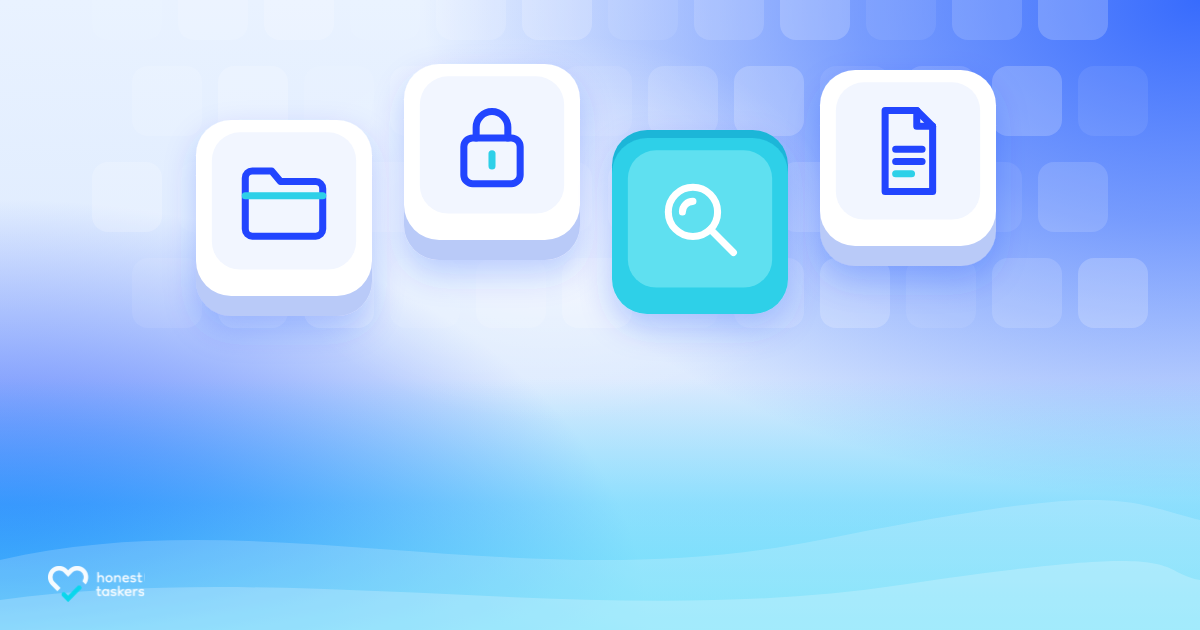
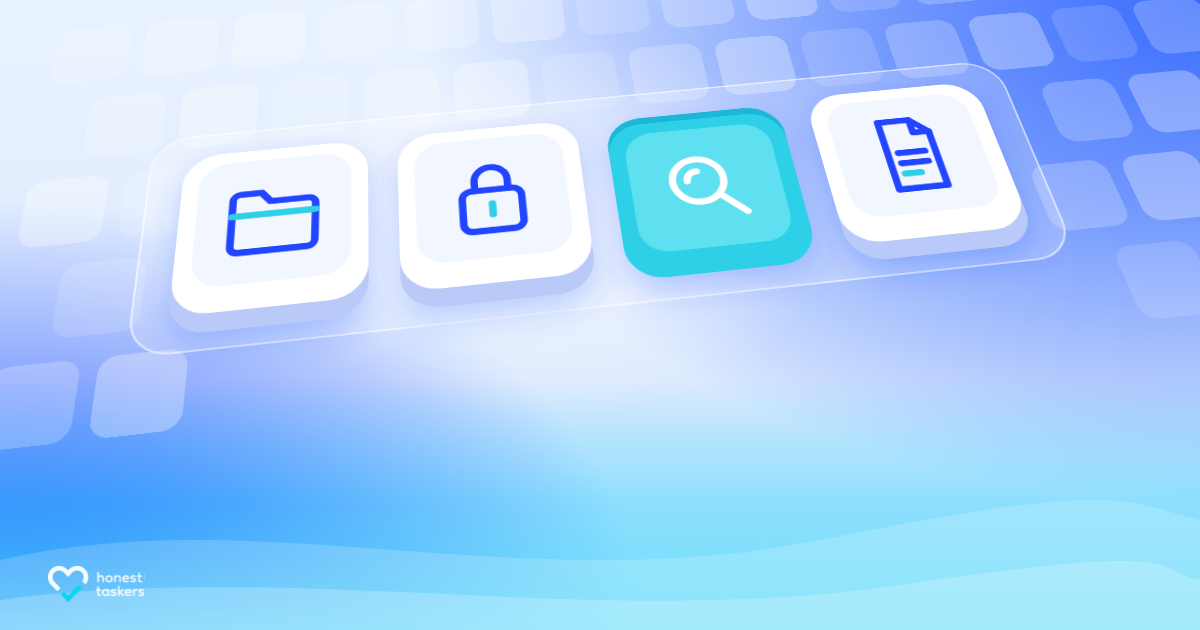
v7: scenes s19-s36 (WIP)
Claude-Session: https://claude.ai/code/session_01AHsVWFWnB54Ytwp6awPeMf

diff --git a/blog-image-research/v7/templates/scenes-c.js b/blog-image-research/v7/templates/scenes-c.js
@@ -210,7 +210,7 @@ S.s43 = { title: 'Virtual Medical Scribe vs. AI Medical Scribe: Key Differences 
 S.s44 = { title: 'Front Desk Burnout in Medical Offices, Signs and Fixes', style: 'Chaos desk', draw({ svg, P }) {
   let s = '';
   // sticky-note storm
-  const notes = [[205, 70, -14, P.sky], [300, 34, 10, '#fff'], [395, 98, -6, P.aqua], [470, 28, 18, '#fff'], [560, 84, -20, CORAL], [655, 22, 8, P.sky], [735, 92, 14, '#fff'], [820, 40, -10, P.aqua], [905, 104, 22, '#fff'], [990, 46, -16, P.sky], [250, 160, 24, '#fff'], [960, 170, -8, P.aqua], [610, 150, 6, '#fff']];
+  const notes = [[205, 70, -14, P.sky], [300, 34, 10, '#fff'], [395, 98, -6, P.aqua], [470, 28, 18, '#fff'], [560, 84, -20, CORAL], [655, 22, 8, P.sky], [735, 92, 14, '#fff'], [820, 40, -10, P.aqua], [905, 104, 22, '#fff'], [990, 46, -16, P.sky], [250, 160, 24, '#fff'], [960, 170, -8, P.aqua]];
   notes.forEach(([x, y, r, c], i) => { const z = i % 3 === 0 ? 62 : 50;
     s += `<g transform="translate(${x} ${y}) rotate(${r})" filter="url(#soft)"><path d="M${-z / 2} ${-z / 2} h${z} v${z * .72} l${-z * .28} ${z * .28} h${-z * .72}z" fill="${c}" opacity=".96"/><path d="M${z / 2} ${z * .22} l${-z * .28} ${z * .28} v${-z * .28}z" fill="#000" opacity=".08"/><rect x="${-z / 2 + 9}" y="${-z / 2 + 12}" width="${z * .5}" height="5" rx="2.5" fill="${c === '#fff' ? P.line : '#fff'}" opacity=".85"/><rect x="${-z / 2 + 9}" y="${-z / 2 + 23}" width="${z * .35}" height="5" rx="2.5" fill="${c === '#fff' ? P.line : '#fff'}" opacity=".85"/></g>`; });
   // desk
@@ -269,14 +269,13 @@ S.s46 = { title: 'How to Measure the ROI of a Virtual Medical Assistant', style:
     s += `<clipPath id="tc${i}"><path d="M${x - w / 2 + 6} ${tTop} V${tBot - w / 2} a${w / 2 - 6} ${w / 2 - 6} 0 0 0 ${w - 12} 0 V${tTop}"/></clipPath>`;
     s += `<g clip-path="url(#tc${i})"><rect x="${x - w / 2}" y="${ly}" width="${w}" height="${h + 40}" fill="url(#t46)"/><ellipse cx="${x}" cy="${ly}" rx="${w / 2}" ry="6" fill="#fff" opacity=".45"/>`;
     const n = Math.floor((h - 24) / 13); for (let k = 0; k < n; k++) { const cy = tBot - 26 - k * 13, jx = x + [0, 2, -1, 1, -2][k % 5];
-      s += `<rect x="${jx - 23}" y="${cy - 1}" width="46" height="9" fill="${P.deep}"/><ellipse cx="${jx}" cy="${cy + 8}" rx="23" ry="6" fill="${P.deep}"/><ellipse cx="${jx}" cy="${cy}" rx="23" ry="6" fill="#fff"/><ellipse cx="${jx}" cy="${cy}" rx="14" ry="3.4" fill="none" stroke="${P.sky}" stroke-width="2"/>`; }
+      s += `<rect x="${jx - 23}" y="${cy - 1}" width="46" height="9" fill="${P.blue}"/><ellipse cx="${jx}" cy="${cy + 8}" rx="23" ry="6" fill="${P.blue}"/><ellipse cx="${jx}" cy="${cy}" rx="23" ry="6" fill="#fff"/><ellipse cx="${jx}" cy="${cy}" rx="14" ry="3.4" fill="none" stroke="${P.sky}" stroke-width="2"/>`; }
     s += `</g>`;
     s += `<rect x="${x - w / 2 - 8}" y="${tTop - 8}" width="${w + 16}" height="16" rx="8" fill="#fff"/><rect x="${x - w / 2 + 12}" y="${tTop + 18}" width="8" height="${tBot - tTop - 80}" rx="4" fill="#fff" opacity=".55"/>`;
   });
   // rack
   s += `<rect x="340" y="262" width="520" height="22" rx="11" fill="url(#gB)" filter="url(#soft)"/><rect x="360" y="284" width="14" height="70" rx="7" fill="${P.deep}"/><rect x="826" y="284" width="14" height="70" rx="7" fill="${P.deep}"/>`;
   // rising trend through the levels
-  s += `<path d="M${xs.map((x, i) => `${x} ${tBot - 270 * lv[i] - 18}`).join(' L')}" fill="none" stroke="#fff" stroke-width="3" stroke-dasharray="2 10" stroke-linecap="round"/>`;
   s += `<g transform="translate(905 70)"><circle r="40" fill="#fff" filter="url(#soft)"/><path d="M-16 14 L16 -16 M-2 -16 H16 V2" fill="none" stroke="${P.teal}" stroke-width="8" stroke-linecap="round" stroke-linejoin="round"/></g>`;
   svg(s);
 } };
@@ -370,20 +369,20 @@ S.s50 = { title: 'How Virtual Assistants Get Paid by US Companies', style: 'Coin
 
 // s51 Bars from a map: a dot map of Latin America lying flat like a table; pay-range bars rise from five countries.
 S.s51 = { title: 'Virtual Assistant Pay in Latin America, Country-by-Country Ranges', style: 'Bars from a map', draw({ svg, P }) {
-  const k = 5.4, sq = .55, X = (lo, la) => 590 + (lo + 74) * k, Y = la => 348 - (la + 56) * k * sq;
+  const k = 6, sq = .5, X = (lo, la) => 610 + (lo + 70) * k, Y = la => 350 - (la + 56) * k * sq;
   const NA = [[-125, 49], [-95, 49], [-83, 46], [-70, 47], [-67, 45], [-70, 42], [-76, 36], [-81, 31], [-80, 26], [-82, 25], [-85, 30], [-90, 30], [-97, 27], [-97, 22], [-94, 18], [-91, 19], [-88, 21], [-87, 16], [-83, 13], [-83, 9], [-78, 8], [-80, 7], [-85, 10], [-92, 15], [-105, 20], [-110, 24], [-112, 30], [-117, 33], [-124, 40]];
-  const SA = [[-78, 9], [-72, 12], [-62, 11], [-52, 5], [-35, -5], [-38, -13], [-41, -22], [-48, -27], [-53, -34], [-58, -38], [-63, -41], [-65, -46], [-68, -52], [-70, -55], [-74, -50], [-73, -40], [-71, -30], [-70, -18], [-76, -14], [-81, -5], [-80, 0], [-78, 9]];
-  let s = `<ellipse cx="610" cy="262" rx="380" ry="96" fill="url(#gGlass)" opacity=".5" filter="url(#soft)"/><ellipse cx="610" cy="262" rx="380" ry="96" fill="none" stroke="#fff" stroke-width="1.5" opacity=".8"/>`;
-  [NA, SA].forEach((p, i) => s += `<path d="M${p.map(([lo, la]) => `${X(lo, la)} ${Y(la)}`).join(' L')}Z" fill="#fff" opacity="${i ? .38 : .16}" stroke="#fff" stroke-opacity="${i ? .9 : .4}" stroke-width="2" stroke-linejoin="round"/>`);
+  const SA = [[-78, 9], [-76, 10], [-72, 12], [-70, 11.5], [-66, 10.6], [-62, 10.7], [-60, 8.5], [-57, 6], [-52, 5], [-50, 2], [-48, -1], [-44, -2.5], [-40, -3], [-35, -5.5], [-35, -9], [-37, -12], [-39, -15], [-40, -20], [-42, -23], [-46, -24], [-48.5, -27], [-50, -30], [-53, -34], [-57, -36], [-57, -38], [-62, -39], [-65, -41], [-64, -43], [-67, -46], [-66, -48], [-69, -51], [-68.5, -53], [-71, -54], [-74, -52], [-75, -47], [-73.5, -43], [-73.5, -37], [-71.5, -31], [-70.5, -25], [-70, -18], [-72, -17], [-76, -14], [-77, -12], [-79, -8], [-81, -5], [-80, -2], [-80.5, 0], [-79, 2], [-77.5, 4], [-77.5, 7]];
+  let s = `<defs><linearGradient id="r51" x1="0" y1="0" x2="0" y2="1"><stop offset="0" stop-color="#55e0fa"/><stop offset="1" stop-color="#2dd0e8"/></linearGradient></defs><ellipse cx="585" cy="270" rx="400" ry="92" fill="url(#gGlass)" opacity=".5" filter="url(#soft)"/><ellipse cx="585" cy="270" rx="400" ry="92" fill="none" stroke="#fff" stroke-width="1.5" opacity=".8"/>`;
+  [NA, SA].forEach((p, i) => s += `<path d="M${p.map(([lo, la]) => `${X(lo, la)} ${Y(la)}`).join(' L')}Z" fill="${i ? 'url(#gB)' : P.mid}" fill-opacity="${i ? .92 : .35}" stroke="#fff" stroke-opacity="${i ? .9 : .5}" stroke-width="2.5" stroke-linejoin="round" ${i ? 'filter="url(#soft)"' : ''}/>`);
   for (let la = 49; la >= -56; la -= 2.4) for (let lo = -125 + (Math.round(la / 2.4) % 2) * .8; lo <= -33; lo += 1.6) {
     if (![NA, SA].some(p => inPoly(lo, la, p))) continue;
     const latin = la < 31, x = X(lo, la), y = Y(la);
-    s += `<ellipse cx="${x}" cy="${y}" rx="3.2" ry="2.3" fill="#fff" opacity="${latin ? .95 : .35}"/>`; }
+    s += `<ellipse cx="${x}" cy="${y}" rx="2.6" ry="1.9" fill="#fff" opacity="${latin ? .55 : .3}"/>`; }
   // range bars (Mexico, Colombia, Peru, Brazil, Argentina), drawn back to front
   const pts = [[-102, 23, 30, 100], [-74, 5, 40, 130], [-47, -10, 50, 165], [-65, -35, 36, 116]].sort((a, b) => b[1] - a[1]);
   pts.forEach(([lo, la, lowOff, hiOff]) => { const x = X(lo, la), y = Y(la);
     s += `<ellipse cx="${x}" cy="${y}" rx="14" ry="6" fill="${P.deep}" opacity=".35"/><path d="M${x} ${y} V${y - lowOff}" stroke="#fff" stroke-width="3" stroke-dasharray="2 6" stroke-linecap="round"/>`;
-    s += `<rect x="${x - 12}" y="${y - hiOff}" width="24" height="${hiOff - lowOff}" rx="12" fill="url(#gBC)" stroke="#fff" stroke-width="2.5" filter="url(#soft)"/>`;
+    s += `<rect x="${x - 12}" y="${y - hiOff}" width="24" height="${hiOff - lowOff}" rx="12" fill="url(#r51)" stroke="#fff" stroke-width="3" filter="url(#soft)"/>`;
     s += `<rect x="${x - 19}" y="${y - hiOff - 3}" width="38" height="7" rx="3.5" fill="#fff"/><rect x="${x - 19}" y="${y - lowOff - 3}" width="38" height="7" rx="3.5" fill="#fff"/>`;
     s += `<circle cx="${x}" cy="${y}" r="7" fill="${P.teal}" stroke="#fff" stroke-width="3"/>`; });
   svg(s);
@@ -392,8 +391,11 @@ S.s51 = { title: 'Virtual Assistant Pay in Latin America, Country-by-Country Ran
 // s52 Islands: the Philippine archipelago in dots on a glass sea; a coin stack on one island, a laptop on another.
 S.s52 = { title: 'Virtual Assistant Salary in the Philippines', style: 'Islands', draw({ svg, P }) {
   const X = lo => 600 + (lo - 122) * 40, Y = la => 22 + (19.4 - la) * 22;
-  let s = `<ellipse cx="600" cy="190" rx="400" ry="162" fill="url(#gGlass)" opacity=".42" filter="url(#soft)"/><ellipse cx="600" cy="190" rx="400" ry="162" fill="none" stroke="#fff" stroke-width="2" opacity=".85"/>`;
-  [[330, 128], [255, 96]].forEach(([rx, ry]) => s += `<ellipse cx="600" cy="190" rx="${rx}" ry="${ry}" fill="none" stroke="#fff" stroke-width="1.5" stroke-dasharray="3 10" opacity=".5"/>`);
+  let s = '';
+  // sea: soft wave lines across the band
+  for (let i = 0; i < 9; i++) { const y = 40 + i * 38, x0 = 140 + (i % 3) * 30, x1 = 1060 - (i % 2) * 40; let d = `M${x0} ${y}`;
+    for (let x = x0; x < x1; x += 60) d += ` q15 -7 30 0 t30 0`;
+    s += `<path d="${d}" fill="none" stroke="#fff" stroke-width="2.5" stroke-linecap="round" opacity="${.18 + .1 * (i % 3)}"/>`; }
   const isl = [
     [[120.6, 18.5], [121.2, 18.6], [122.2, 18.5], [122.3, 17.2], [121.6, 16], [121.6, 15.2], [122, 14.2], [123, 13.9], [124, 13], [124.1, 12.6], [123.3, 13], [122.6, 13.4], [121.8, 13.9], [121, 13.7], [120.6, 14.4], [120.9, 14.7], [120.3, 15.2], [119.8, 16.3], [120.4, 16.4]],
     [[120.4, 13.5], [121.5, 13.2], [121.2, 12.2], [120.6, 12.5]],
@@ -406,10 +408,12 @@ S.s52 = { title: 'Virtual Assistant Salary in the Philippines', style: 'Islands'
     [[123.8, 10.1], [124.5, 10.0], [124.3, 9.6], [123.8, 9.7]],
     [[122.0, 7.0], [123, 8.1], [123.8, 8.6], [124.6, 8.5], [125.2, 9.8], [125.6, 9.7], [126.2, 9.2], [126.6, 7.3], [126.2, 6.3], [125.4, 5.8], [125.2, 6.8], [124.2, 6.2], [124.0, 7.4], [123.6, 7.7], [122.3, 6.9]]
   ].map(p => p.map(([lo, la]) => [X(lo), Y(la)]));
+  isl.forEach(poly => s += `<path d="M${poly.map(p => p.join(' ')).join(' L')}Z" fill="${P.aqua}" fill-opacity=".5" stroke="${P.aqua}" stroke-opacity=".5" stroke-width="30" stroke-linejoin="round"/>`);
+  isl.forEach(poly => s += `<path d="M${poly.map(p => p.join(' ')).join(' L')}Z" fill="#fff" stroke="#fff" stroke-width="12" stroke-linejoin="round" filter="url(#soft)"/>`);
   const g = 9;
   isl.forEach(poly => { let n = 0;
-    for (let y = 10; y < 360; y += g) for (let x = 330; x < 870; x += g) { const xx = x + ((y / g) % 2) * g / 2; if (inPoly(xx, y, poly)) { s += `<circle cx="${xx}" cy="${y}" r="3.7" fill="#fff"/>`; n++; } }
-    if (!n) { const cx = poly.reduce((a, p) => a + p[0], 0) / poly.length, cy = poly.reduce((a, p) => a + p[1], 0) / poly.length; s += `<circle cx="${cx}" cy="${cy}" r="3.4" fill="#fff"/>`; } });
+    for (let y = 10; y < 360; y += g) for (let x = 330; x < 870; x += g) { const xx = x + ((y / g) % 2) * g / 2; if (inPoly(xx, y, poly)) { s += `<circle cx="${xx}" cy="${y}" r="2.2" fill="${P.sky}"/>`; n++; } }
+    if (!n) { const cx = poly.reduce((a, p) => a + p[0], 0) / poly.length, cy = poly.reduce((a, p) => a + p[1], 0) / poly.length; } });
   // coin stack on the southern island
   const coin = (x, y) => `<ellipse cx="${x}" cy="${y + 8}" rx="22" ry="7" fill="${P.blue}"/><rect x="${x - 22}" y="${y}" width="44" height="8" fill="${P.blue}"/><ellipse cx="${x}" cy="${y}" rx="22" ry="7" fill="#fff"/><ellipse cx="${x}" cy="${y}" rx="14" ry="4.3" fill="none" stroke="${P.sky}" stroke-width="2.5"/>`;
   let cs = coin(650, 160); [0, 1, 2, 3, 4].forEach(i => cs += coin(612 + [0, 3, -2, 2, 0][i], 160 - i * 11));
@@ -427,9 +431,9 @@ S.s52 = { title: 'Virtual Assistant Salary in the Philippines', style: 'Islands'
 S.s53 = { title: 'How Virtual Assistants Keep Telehealth Practices Running', style: 'Photo in screen', draw({ svg, photo, glass, P }) {
   svg(`<rect x="370" y="22" width="460" height="290" rx="22" fill="${P.ink}" filter="url(#soft)"/>
     <path d="M330 312 h540 l-24 30 a10 10 0 0 1 -8 4 h-476 a10 10 0 0 1 -8 -4z" fill="#fff"/><rect x="545" y="312" width="110" height="10" rx="5" fill="${P.line}"/>`);
-  photo('virtual-medical-receptionist-skills', [75, 22], 386, 38, 428, 258, 230, 112, 3.0, 12);
+  photo('virtual-medical-receptionist-skills', [75, 22], 386, 38, 428, 258, 186, 112, 3.0, 12);
   svg(`<rect x="386" y="38" width="428" height="258" rx="12" fill="none" stroke="#fff" stroke-opacity=".15"/>
-    <g transform="translate(600 270)"><rect x="-80" y="-18" width="160" height="36" rx="18" fill="${P.ink}" opacity=".55"/><circle cx="-46" cy="0" r="11" fill="#fff"/><circle cx="0" cy="0" r="11" fill="#fff"/><circle cx="46" cy="0" r="11" fill="${CORAL}"/></g>
+    <g transform="translate(700 206)"><rect width="100" height="76" rx="12" fill="${P.sky}" stroke="#fff" stroke-width="3"/>${bust(50, 14, 62, P.blue)}</g>
     <g transform="translate(754 70)"><rect x="-38" y="-16" width="76" height="32" rx="16" fill="${P.ink}" opacity=".5"/><circle cx="-18" cy="0" r="6" fill="${P.teal}"/><rect x="-6" y="-4" width="30" height="8" rx="4" fill="#fff" opacity=".85"/></g>`);
   // gears (left)
   const gear = (x, y, r, n, col, rot = 0) => { let d = ''; for (let i = 0; i < n; i++) { const a = rot + i / n * 360; d += `<rect x="${-r * .16}" y="${-r - r * .26}" width="${r * .32}" height="${r * .4}" rx="${r * .08}" transform="rotate(${a})"/>`; }

diff --git a/blog-image-research/v7/templates/scenes-b.js b/blog-image-research/v7/templates/scenes-b.js
@@ -266,8 +266,8 @@ S.s27 = { title: 'How a Physician Answering Service Works?', style: 'Night clock
 } };
 
 // ---------- s28 Giant calendar ----------
-S.s28 = { title: 'How to Outsource Medical Scheduling', style: 'Giant calendar', draw({ add, svg, P, c }) {
-  const wrap = add('abs', { left: 300, top: 18, width: 560, height: 330, transform: 'perspective(1300px) rotateX(24deg) rotateY(-14deg) rotateZ(4deg)', transformOrigin: '50% 60%' });
+S.s28 = { title: 'How to Outsource Medical Scheduling', style: 'Giant calendar', draw({ add, svg, glass, ico, P, c }) {
+  const wrap = add('abs', { left: 290, top: 18, width: 560, height: 330, transform: 'perspective(1300px) rotateX(24deg) rotateY(-14deg) rotateZ(4deg)', transformOrigin: '50% 60%' });
   const page = add('solid', { left: 0, top: 0, width: 560, height: 330, borderRadius: 28, overflow: 'hidden' }, '', wrap);
   add('abs', { left: 0, top: 0, width: 560, height: 56, background: 'linear-gradient(90deg,#2e64fd,#1344fd)' }, '', page);
   for (const x of [120, 440]) add('abs', { left: x - 9, top: -20, width: 18, height: 44, borderRadius: 9, background: '#fff', boxShadow: '0 4px 10px rgba(19,68,253,.3)' }, '', wrap);
@@ -280,10 +280,10 @@ S.s28 = { title: 'How to Outsource Medical Scheduling', style: 'Giant calendar',
   const r = target.getBoundingClientRect(), cr = c.getBoundingClientRect();
   const tx = r.left - cr.left + r.width / 2, ty = r.top - cr.top + r.height / 2;
   const fx = tx + 150, fy = ty - 96;
-  svg(`<path d="M${fx - 40} ${fy + 30} C ${fx - 60} ${fy + 70}, ${tx + 50} ${ty - 40}, ${tx + 22} ${ty - 14}" stroke="#fff" stroke-width="4" stroke-dasharray="3 10" stroke-linecap="round" fill="none"/>
+  svg(`<path d="M${fx - 40} ${fy + 30} C ${fx - 60} ${fy + 70}, ${tx + 50} ${ty - 40}, ${tx + 22} ${ty - 14}" stroke="${P.teal}" stroke-width="4" stroke-dasharray="3 10" stroke-linecap="round" fill="none"/>
     <g filter="url(#soft)" transform="rotate(-8 ${fx} ${fy})"><rect x="${fx - 70}" y="${fy - 24}" width="140" height="48" rx="24" fill="url(#gGlass)" stroke="#fff" stroke-width="2"/>
     <rect x="${fx - 54}" y="${fy - 8}" width="108" height="16" rx="8" fill="${P.teal}"/></g>
-    <g filter="url(#soft)" transform="translate(${fx + 34} ${fy + 8})"><path d="M0 0 L0 44 L12 33 L21 52 L30 48 L21 30 L37 29 Z" fill="#fff" stroke="${P.blue}" stroke-width="4" stroke-linejoin="round"/></g>`);
+    <g filter="url(#soft)" transform="translate(${fx + 34} ${fy + 8})"><path d="M0 0 L0 44 L12 33 L21 52 L30 48 L21 30 L37 29 Z" fill="#fff" stroke="${P.blue}" stroke-width="4" stroke-linejoin="round"/></g>`);  glass(196, 214, 120, 120, 60, {}, ico('headset', 70, 9));
 } };
 
 // ---------- s29 Keycaps ----------
@@ -294,12 +294,14 @@ S.s29 = { title: 'Virtual Medical Records Specialist Skills', style: 'Keycaps', 
       <rect x="${x}" y="${y + (pressed ? 14 : 0)}" width="${s}" height="${s}" rx="${s * .2}" fill="${pressed ? P.teal : '#fff'}"/>
       <rect x="${x + s * .09}" y="${y + (pressed ? 14 : 0) + s * .07}" width="${s * .82}" height="${s * .78}" rx="${s * .16}" fill="${pressed ? '#5fe0f0' : '#f2f6ff'}"/>
       ${inner(x + s * .2, y + (pressed ? 14 : 0) + s * .16, s * .6)}</g>`; };
-  const ghostKeys = []; for (let r = 0; r < 4; r++) for (let i = 0; i < 12; i++) ghostKeys.push(`<rect x="${92 + i * 86 + (r % 2) * 40}" y="${-30 + r * 96}" width="70" height="70" rx="16" fill="#fff" opacity="${.08 + .06 * ((i + r) % 3)}"/>`);
-  svg(`${ghostKeys.join('')}
-    ${key(196, 120, 176, (x, y, s) => folder(x, y, s))}
-    ${key(404, 64, 176, (x, y, s) => I('lock', x, y, s, 8))}
-    ${key(612, 124, 176, (x, y, s) => I('magnifier', x, y, s, 8, '#fff', '#fff'), true)}
-    ${key(820, 70, 176, (x, y, s) => I('document', x, y, s, 8))}`);
+  const ghostKeys = []; for (let r = 0; r < 5; r++) for (let i = 0; i < 13; i++) { const x = 30 + i * 96 + (r % 2) * 48, y = -100 + r * 104;
+    if (y > 60 && y < 320 && x > 150 && x < 1020) continue; ghostKeys.push(`<rect x="${x}" y="${y}" width="80" height="80" rx="18" fill="#fff" opacity="${.14 + .08 * ((i + r) % 3)}"/>`); }
+  const layer = svg(`<rect x="150" y="70" width="900" height="250" rx="40" fill="#fff" fill-opacity=".22" stroke="#fff" stroke-opacity=".6" stroke-width="2"/>${ghostKeys.join('')}
+    ${key(184, 96, 186, (x, y, s) => folder(x, y, s))}
+    ${key(400, 96, 186, (x, y, s) => I('lock', x, y, s, 8))}
+    ${key(616, 96, 186, (x, y, s) => I('magnifier', x, y, s, 8, '#fff', '#fff'), true)}
+    ${key(832, 96, 186, (x, y, s) => I('document', x, y, s, 8))}`);
+  Object.assign(layer.style, { transform: 'perspective(1100px) rotateX(34deg) rotateZ(-7deg)', transformOrigin: '600px 200px' });
 } };
 
 // ---------- s30 Puzzle ----------
@@ -311,35 +313,34 @@ S.s30 = { title: 'How to Hire a Virtual Care Coordinator', style: 'Puzzle', draw
     const T = (t, n) => [ax + (bx - ax) * t + ox * (-n) * Sz * sign, ay + (by - ay) * t + oy * (-n) * Sz * sign];
     return bump.map(p => p[0] === 'C' ? 'C' + [T(p[1], p[2]), T(p[3], p[4]), T(p[5], p[6])].map(q => q.join(' ')).join(', ') : 'L' + T(p[0], p[1]).join(' ')).join(' '); };
   const piece = (x, y, t, r, b, l) => `M${x} ${y} ${edge(x, y, x + Sz, y, 0, -1, t)} ${edge(x + Sz, y, x + Sz, y + Sz, 1, 0, r)} ${edge(x + Sz, y + Sz, x, y + Sz, 0, 1, b)} ${edge(x, y + Sz, x, y, -1, 0, l)} Z`;
-  const ox = 444, oy = 44;
+  const ox = 380, oy = 44;
   const A = piece(ox, oy, 0, 1, -1, 0), B = piece(ox + Sz, oy, 0, 0, 1, -1), Cp = piece(ox, oy + Sz, 1, -1, 0, 0), D = piece(ox + Sz, oy + Sz, -1, 0, 0, 1);
   const icon = (n, x, y) => I(n, x - 40, y - 40, 80, 9);
   svg(`<path d="${B}" fill="#fff" fill-opacity=".18" stroke="#fff" stroke-width="3" stroke-dasharray="4 10" stroke-linecap="round"/>
-    <g filter="url(#soft)"><path d="${A}" fill="#fff"/><path d="${Cp}" fill="url(#gGlass)" stroke="#fff" stroke-width="2"/><path d="${D}" fill="#fff"/></g>
-    <path d="${Cp}" fill="none" stroke="#fff" stroke-width="2"/>
+    <g filter="url(#soft)"><path d="${A}" fill="#fff"/><path d="${Cp}" fill="#fff" fill-opacity=".82"/><path d="${D}" fill="#fff"/></g>
     ${icon('heart', ox + Sz / 2, oy + Sz / 2)}${icon('person', ox + Sz / 2, oy + Sz * 1.5)}${icon('phone', ox + Sz * 1.5, oy + Sz * 1.5)}
     <g transform="translate(176 14) rotate(10 ${ox + Sz * 1.5} ${oy + Sz / 2})" filter="url(#soft)">
       <path d="${B}" fill="url(#gB)"/>${I('calendar', ox + Sz * 1.5 - 40, oy + Sz / 2 - 40, 80, 9, '#fff', P.aqua)}</g>
-    <path d="M 800 34 C 770 14, 720 20, 690 52" stroke="#fff" stroke-width="4" stroke-dasharray="3 10" stroke-linecap="round" fill="none"/>
-    <path d="M688 36 L 688 54 L 705 56" stroke="#fff" stroke-width="4" stroke-linecap="round" stroke-linejoin="round" fill="none"/>`);
+    <path d="M 736 34 C 706 10, 660 18, 630 50" stroke="#fff" stroke-width="4" stroke-dasharray="3 10" stroke-linecap="round" fill="none"/>
+    <path d="M641.6 46.7 L 626 50 L 628.2 34.2" stroke="#fff" stroke-width="4" stroke-linecap="round" stroke-linejoin="round" fill="none"/>`);
 } };
 
 // ---------- s31 Folder fan ----------
 S.s31 = { title: 'Virtual Medical Records Specialist Guide', style: 'Folder fan', draw({ svg, P }) {
   const px = 600, py = 610, w = 220, h = 160, dist = 382;
   const folder = (ang, tab, tabPos, lift = 0, hero = false) => {
-    const x = px - w / 2, y = py - dist - h / 2 - lift, tx = x + 16 + tabPos * 70;
+    const x = px - w / 2, y = py - dist - h / 2 - lift, tx = hero ? x + w - 96 : x + 16 + tabPos * 70;
     return `<g transform="rotate(${ang} ${px} ${py})" filter="url(#soft)">
       <path d="M${x} ${y + 12} a12 12 0 0 1 12 -12 H ${tx} a8 8 0 0 1 7 -4 l 6 -14 h 56 l 6 14 a8 8 0 0 1 7 4 H ${x + w - 12} a12 12 0 0 1 12 12 V ${y + h} H ${x} Z" fill="${tab}"/>
-      <rect x="${x + 14}" y="${y + (hero ? -60 : 8)}" width="${w - 28}" height="${h}" rx="10" fill="#fff"/>
-      ${hero ? `<path d="M${x + 38} ${y - 30}h96M${x + 38} ${y - 8}h140M${x + 38} ${y + 14}h70" stroke="${P.sky}" stroke-width="9" stroke-linecap="round"/>` : `<path d="M${x + 36} ${y + 26}h90" stroke="${P.line}" stroke-width="7" stroke-linecap="round"/>`}
+      <rect x="${x + 14}" y="${y + (hero ? -60 : 8)}" width="${hero ? w - 118 : w - 28}" height="${h}" rx="10" fill="#fff"/>
+      ${hero ? `<path d="M${x + 36} ${y - 34}h56M${x + 36} ${y - 12}h44M${x + 36} ${y + 10}h56" stroke="${P.sky}" stroke-width="9" stroke-linecap="round"/>` : `<path d="M${x + 36} ${y + 26}h90" stroke="${P.line}" stroke-width="7" stroke-linecap="round"/>`}
       <rect x="${x}" y="${y + 36}" width="${w}" height="${h - 36}" rx="12" fill="${hero ? 'url(#gB)' : '#f5f8ff'}"/>
       <rect x="${x + 22}" y="${y + h - 34}" width="${hero ? 70 : 54}" height="10" rx="5" fill="${hero ? '#fff' : tab}" opacity="${hero ? .8 : .45}"/></g>`; };
-  const lx = 690, ly = 74;
+  const lx = 506, ly = 84;
   svg(`${folder(-38, P.deep, 0)}${folder(38, P.cyan, 1)}${folder(-19, P.mid, 1)}${folder(19, P.teal, 0)}${folder(0, P.blue, 0, 80, true)}
     <g filter="url(#soft)"><circle cx="${lx}" cy="${ly}" r="56" fill="#fff" fill-opacity=".35" stroke="#fff" stroke-width="10"/>
-    <path d="M${lx + 42} ${ly + 42} L ${lx + 92} ${ly + 92}" stroke="#fff" stroke-width="22" stroke-linecap="round"/>
-    <path d="M${lx + 46} ${ly + 46} L ${lx + 88} ${ly + 88}" stroke="${P.blue}" stroke-width="12" stroke-linecap="round"/>
+    <path d="M${lx - 42} ${ly + 42} L ${lx - 92} ${ly + 92}" stroke="#fff" stroke-width="22" stroke-linecap="round"/>
+    <path d="M${lx - 46} ${ly + 46} L ${lx - 88} ${ly + 88}" stroke="${P.blue}" stroke-width="12" stroke-linecap="round"/>
     <path d="M${lx - 30} ${ly - 22} a 38 38 0 0 1 28 -16" stroke="#fff" stroke-width="6" stroke-linecap="round" fill="none"/></g>`);
 } };
 
@@ -405,7 +406,7 @@ S.s34 = { title: 'ICD-10 Codes Explained', style: 'Tree', draw({ svg, P }) {
 
 // ---------- s35 Snap-on blocks ----------
 S.s35 = { title: 'Medical Billing Modifiers Explained', style: 'Snap-on blocks', draw({ svg, P }) {
-  const u = 76, pr = isoP(534, 84, u), BW = 4, BD = 2, BH = 1, TH = .7, HZ = BH + 1.0;
+  const u = 76, pr = isoP(470, 112, u), BW = 4, BD = 2, BH = 1, TH = .7;
   const stud = (x, y, z, col, dark) => { const [a, b] = pr(x, y, z), [, d] = pr(x, y, z + .22), rx = .26 * 1.22 * u, ry = .26 * .707 * u;
     return `<path d="M${a - rx} ${b} V ${d} A ${rx} ${ry} 0 0 1 ${a + rx} ${d} V ${b} A ${rx} ${ry} 0 0 1 ${a - rx} ${b} Z" fill="${dark}"/><ellipse cx="${a}" cy="${d}" rx="${rx}" ry="${ry}" fill="${col}"/>`; };
   const onFace = (o, ex, ey, inner) => `<g transform="matrix(${(ex[0] - o[0]) / 120} ${(ex[1] - o[1]) / 120} ${(ey[0] - o[0]) / 120} ${(ey[1] - o[1]) / 120} ${o[0]} ${o[1]})">${inner}</g>`;
@@ -415,7 +416,7 @@ S.s35 = { title: 'Medical Billing Modifiers Explained', style: 'Snap-on blocks',
     `<g fill="none" stroke="${P.blue}" stroke-width="9" stroke-linecap="round" stroke-linejoin="round">${window.HT_ICONS.document.replace(/class="ac"/g, `stroke="${P.teal}"`)}</g>`);
   s += onFace(pr(1.4, BD, BH - .32), pr(3.4, BD, BH - .32), pr(1.4, BD, BH - 1.32), `<rect x="0" y="0" width="120" height="9" rx="4.5" fill="${P.line}"/><rect x="0" y="20" width="76" height="9" rx="4.5" fill="${P.line}"/>`);
   const sym = { dot: `<circle cx="60" cy="60" r="20" fill="#fff"/>`, tri: `<path d="M60 36 L 84 78 H 36 Z" fill="#fff"/>`, plus: `<path d="M60 36 V84 M36 60 H84" stroke="#fff" stroke-width="15" stroke-linecap="round"/>`, ring: `<circle cx="60" cy="60" r="19" fill="none" stroke="#fff" stroke-width="10"/>` };
-  const tags = { '1,0': [P.blue, '#1131d6', '#1a3cf0', sym.dot], '0,1': [P.cyan, '#04a3c9', '#03b9e3', sym.tri], '2,1': [P.teal, '#1aa3ba', '#22bbd4', sym.plus] };
+  const tags = { '1,0': [P.blue, '#1131d6', '#1a3cf0', sym.dot], '0,1': [P.cyan, '#04a3c9', '#03b9e3', sym.tri], '1,1': [P.teal, '#1aa3ba', '#22bbd4', sym.plus] };
   const items = [];
   for (let x = 0; x < BW; x++) for (let y = 0; y < BD; y++) {
     const t = tags[x + ',' + y];
@@ -423,10 +424,11 @@ S.s35 = { title: 'Medical Billing Modifiers Explained', style: 'Snap-on blocks',
       : stud(x + .5, y + .5, BH, '#fff', '#c6d5fb')]); }
   items.sort((a, b) => a[0] - b[0]);
   s += items.map(i => i[1]).join('');
-  // hovering modifier block over (3,1) with snap guide
-  const [ax, ay] = pr(3.5, 1.5, BH + .32), [, hy] = pr(3.5, 1.5, HZ - .08);
-  s += `<path d="M${ax} ${hy + 8} V ${ay - 8}" stroke="#fff" stroke-width="4" stroke-dasharray="3 9" stroke-linecap="round"/><path d="M${ax - 11} ${ay - 22} L ${ax} ${ay - 9} L ${ax + 11} ${ay - 22}" stroke="#fff" stroke-width="4" fill="none" stroke-linecap="round" stroke-linejoin="round"/>`;
-  s += isoBox(pr, 3.04, 1.04, HZ, .92, .92, TH, P.mid, '#2741e3', '#3550f2') + onFace(pr(3.04, 1.04, HZ + TH), pr(3.96, 1.04, HZ + TH), pr(3.04, 1.96, HZ + TH), sym.ring);
+  // a modifier block flying in from the right towards the free stud at (3,0)
+  const [sx, sy] = pr(3.5, .5, BH + .3), [hx, hy] = pr(5.1, -.5, 2.1);
+  s += `<path d="M${hx - 30} ${hy + 40} C ${hx - 60} ${hy + 70}, ${sx + 30} ${sy - 70}, ${sx + 4} ${sy - 14}" stroke="#fff" stroke-width="4" stroke-dasharray="3 9" stroke-linecap="round" fill="none"/>
+    <path d="M${sx - 8} ${sy - 26} L ${sx + 3} ${sy - 12} L ${sx + 16} ${sy - 24}" stroke="#fff" stroke-width="4" fill="none" stroke-linecap="round" stroke-linejoin="round"/>`;
+  s += `<g>` + isoBox(pr, 4.6, -1, 2.1, .92, .92, TH, P.mid, '#2741e3', '#3550f2') + onFace(pr(4.6, -1, 2.1 + TH), pr(5.52, -1, 2.1 + TH), pr(4.6, -.08, 2.1 + TH), sym.ring) + '</g>';
   svg(`<g filter="url(#soft)">${s}</g>`);
 } };
 
